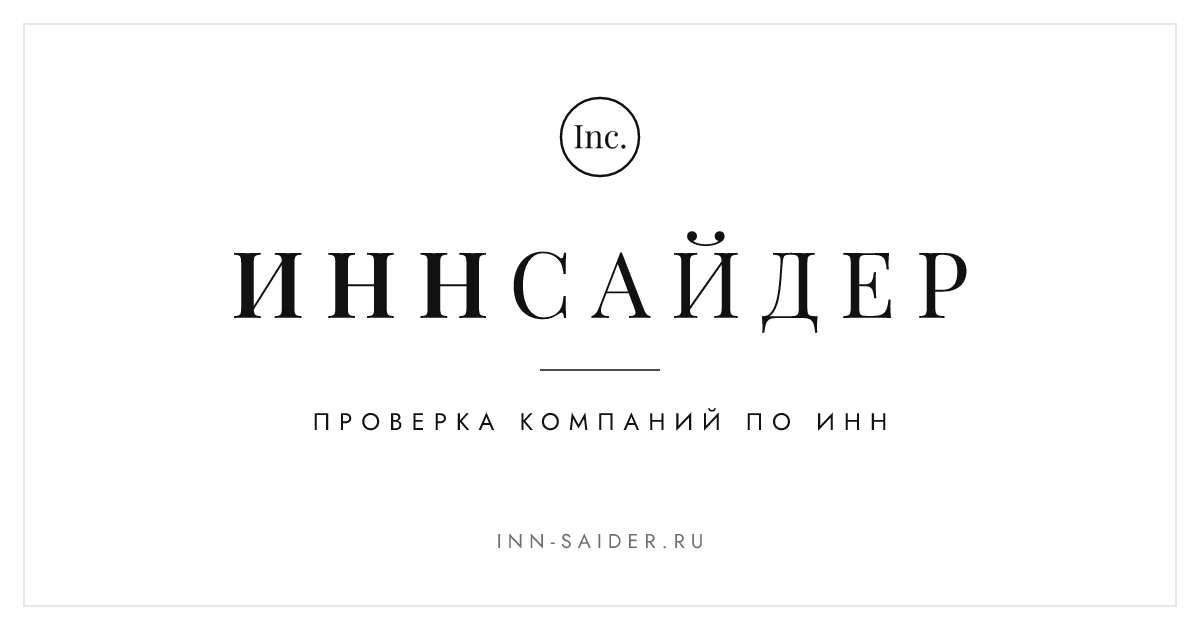
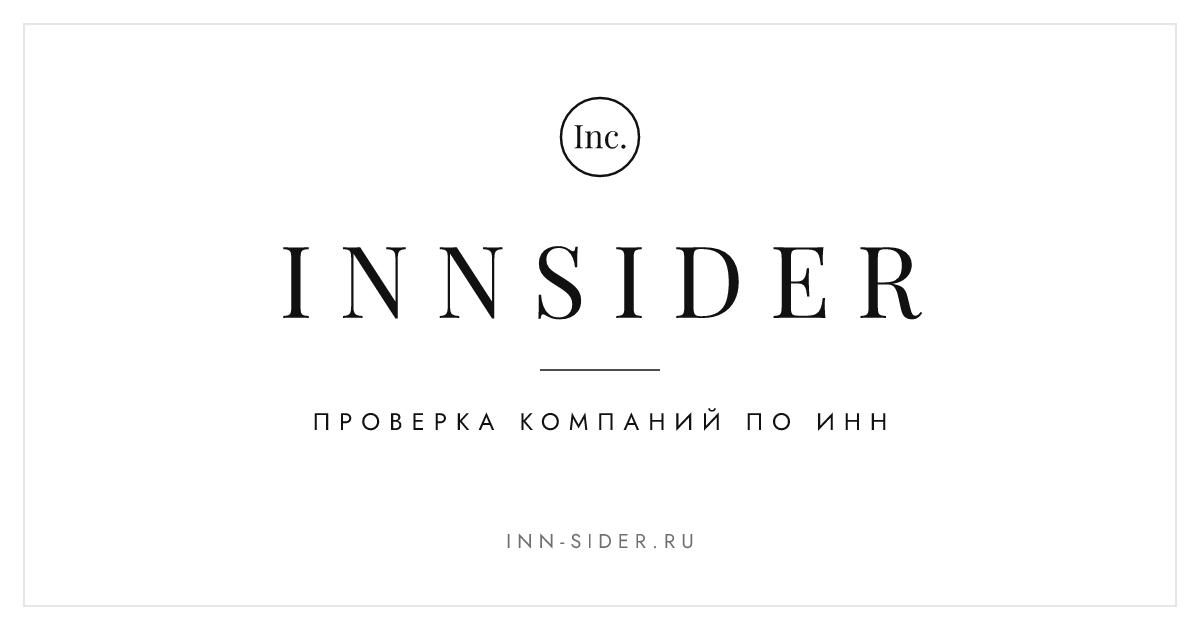
Название латиницей: INNSIDER, адрес inn-sider.ru; inn-saider.ru — редирект; подписка INNSIDER Pro

Changed region(s): [[0.185, 0.3619, 0.8325, 0.5127], [0.4008, 0.8444, 0.5858, 0.8746]]

diff --git a/public/org.js b/public/org.js
@@ -1,4 +1,4 @@
-/* ИННсайдер: проверка организации по ИНН.
+/* INNSIDER: проверка организации по ИНН.
    Данные берём из открытых реестров через DaData (метод «Найти по ИНН»), памятку строим по простым правилам.
    Если у страницы задан data-api (наш сервер, см. server/index.mjs), запросы идут через него: ключи не видны в браузере,
    а после данных реестра сервер присылает ИИ-разбор простым языком. Без data-api — старый режим, прямо в DaData. */
@@ -228,7 +228,7 @@
     return out;
   }
 
-  /* ---------- Индекс надёжности ИННсайдер: 0–100 по открытым данным ----------
+  /* ---------- Индекс надёжности INNSIDER: 0–100 по открытым данным ----------
      Это мнение, основанное на фактах, а не утверждение о компании. Каждая поправка видна пользователю,
      методика опубликована на странице /indeks/ (строится из INDEX_RULES при сборке сайта).
      Вход: x = { status, ageYears, invalid, disqualified, fns: {debt, taxes, staff, last, prev},
@@ -444,7 +444,7 @@
     var num = el('div', 'idx-num'); num.appendChild(el('b', null, String(r.score))); num.appendChild(el('span', null, '/100'));
     box.appendChild(num);
     var t = el('div', 'idx-text');
-    t.appendChild(el('div', 'idx-t', 'Индекс надёжности ИННсайдер: ' + r.level));
+    t.appendChild(el('div', 'idx-t', 'Индекс надёжности INNSIDER: ' + r.level));
     var note = el('div', 'note-sm', (r.partial ? 'Предварительная оценка: ' + (!IDX.fns ? 'данные ФНС ещё загружаются. ' : !IDX.courts ? 'суды не загружены — откройте их ниже, и оценка уточнится. ' : 'часть данных недоступна. ') : '') + 'Это мнение по открытым данным, а не гарантия. ');
     var how = el('a', null, 'Как считаем'); how.href = '/indeks/'; note.appendChild(how);
     t.appendChild(note);
@@ -868,7 +868,7 @@
         if (k.limited) { b.disabled = false; msgc.textContent = 'Сегодня лимит запросов к судам исчерпан. Попробуйте завтра или посмотрите сами: kad.arbitr.ru и fssp.gov.ru.'; return; }
         if (k.paywall) {
           b.remove(); msgc.textContent = 'Бесплатно — суды по ' + k.free + ' новым компаниям в день, на сегодня они закончились. ';
-          var pa = el('a', null, 'ИННсайдер Про — без ограничений, от 290 ₽ в месяц'); pa.href = '/tarify/';
+          var pa = el('a', null, 'INNSIDER Pro — без ограничений, от 290 ₽ в месяц'); pa.href = '/tarify/';
           msgc.appendChild(pa); msgc.appendChild(document.createTextNode('. Или загляните завтра.'));
           return;
         }

diff --git a/public/account.js b/public/account.js
@@ -1,4 +1,4 @@
-/* ИННсайдер: страницы «Вход» и «Кабинет». Сервер аккаунтов — server/accounts.mjs (адрес в <html data-acct>).
+/* INNSIDER: страницы «Вход» и «Кабинет». Сервер аккаунтов — server/accounts.mjs (адрес в <html data-acct>).
    Сессия — cookie на общем домене, поэтому все запросы идут с credentials: 'include'. */
 (function () {
   'use strict';
@@ -125,7 +125,7 @@
         // Подписка
         var b = r[4] || {};
         if (b.enabled) {
-          var ps = section('Подписка ИННсайдер Про');
+          var ps = section('Подписка INNSIDER Pro');
           if (b.pro) {
             ps.appendChild(el('p', null, 'Действует до ' + dateRu(b.paid_until) + (b.autorenew ? ', затем продлится автоматически.' : '.')));
             if (b.autorenew) ps.appendChild(smallBtn('Отключить автопродление', function () {
@@ -235,7 +235,7 @@
       var tries = 0;
       (function check() {
         api('POST', '/api/billing/check', {}).then(function (j) {
-          if (j.pro && j.payment === 'succeeded') { note.textContent = 'Оплата прошла. Подписка ИННсайдер Про действует до ' + dateRu(j.paid_until) + '.'; render(); history.replaceState(null, '', '/kabinet/'); }
+          if (j.pro && j.payment === 'succeeded') { note.textContent = 'Оплата прошла. Подписка INNSIDER Pro действует до ' + dateRu(j.paid_until) + '.'; render(); history.replaceState(null, '', '/kabinet/'); }
           else if (j.payment === 'canceled') note.textContent = 'Оплата не прошла. Попробуйте ещё раз на странице тарифов.';
           else if (++tries < 10) setTimeout(check, 3000);
           else note.textContent = 'Платёж ещё обрабатывается. Обновите страницу через пару минут.';

diff --git a/public/style.css b/public/style.css
@@ -1,4 +1,4 @@
-/* ИННсайдер — «кутюр»: монохром, много воздуха, тонкие линии, антиква Playfair Display в заголовках и гротеск Jost в тексте.
+/* INNSIDER — «кутюр»: монохром, много воздуха, тонкие линии, антиква Playfair Display в заголовках и гротеск Jost в тексте.
    Шрифты (SIL OFL, см. fonts/OFL-*.txt) раздаём сами: без запросов к Google и быстрее первая отрисовка */
 @font-face{font-family:"Jost";font-style:normal;font-weight:300 500;font-display:swap;src:url(fonts/jost-cyrillic.woff2) format("woff2");unicode-range:U+0301, U+0400-045F, U+0490-0491, U+04B0-04B1, U+2116}
 @font-face{font-family:"Jost";font-style:normal;font-weight:300 500;font-display:swap;src:url(fonts/jost-latin.woff2) format("woff2");unicode-range:U+0000-00FF, U+0131, U+0152-0153, U+02BB-02BC, U+02C6, U+02DA, U+02DC, U+0304, U+0308, U+0329, U+2000-206F, U+20AC, U+2122, U+2191, U+2193, U+2212, U+2215, U+FEFF, U+FFFD}

diff --git a/public/person.js b/public/person.js
@@ -1,4 +1,4 @@
-/* ИННсайдер: проверка физлица — памятка со ссылками на бесплатные официальные реестры.
+/* INNSIDER: проверка физлица — памятка со ссылками на бесплатные официальные реестры.
    Автоматического поиска по ФИО тут нет и быть не должно: закон не даёт "пробивать" человека по одной кнопке,
    как компанию по ИНН. Поэтому страница ничего никуда не отправляет — только подставляет введённое ФИО
    в текст памятки и даёт прямые ссылки на официальные бесплатные реестры, где искать нужно вручную. */

diff --git a/public/app.js b/public/app.js
@@ -1,4 +1,4 @@
-/* ИННсайдер: небольшой скрипт без зависимостей.
+/* INNSIDER: небольшой скрипт без зависимостей.
    1) лента: окно 24 часа, время «N минут назад», фильтр по аудитории;
    2) страница новости: вкладки по аудиториям;
    3) калькуляторы ипотеки и вклада.

diff --git a/HANDOFF.md b/HANDOFF.md
@@ -145,3 +145,5 @@ innfact.ru, www и fin-check.shop — постоянный редирект на
 Вместо «СверкаИНН» выбрали «ИННсайдер» (inn-saider.ru). sverkainn.ru (уже куплен) — редирект, как innfact.ru и fin-check.shop.
 Иконка — «Inc.» в кольце (`Claude outputs/logo-innsaider/icon.js`). Функция индекса — `innIndex`.
 Важно для текстов: «инсайдер» — только образ; сайт работает исключительно с открытыми данными, никакой «закрытой»/инсайдерской информации не обещаем (224-ФЗ, ст. 185.6 УК).
+
+**Уточнение (27.09.2026): название латиницей — INNSIDER, главный адрес inn-sider.ru** (пишется как логотип). inn-saider.ru (куплен раньше, «как слышится») — редирект. Подписка — «INNSIDER Pro».

diff --git a/deploy/README.md b/deploy/README.md
@@ -1,4 +1,4 @@
-# Запуск сервера ИННсайдер с аккаунтами на Timeweb
+# Запуск сервера INNSIDER с аккаунтами на Timeweb
 
 Сервер проверки организаций, экспресс-разбора и аккаунтов. Данные пользователей по 152-ФЗ
 хранятся только здесь, на сервере в России. После переезда сервер на Render можно отключить.
